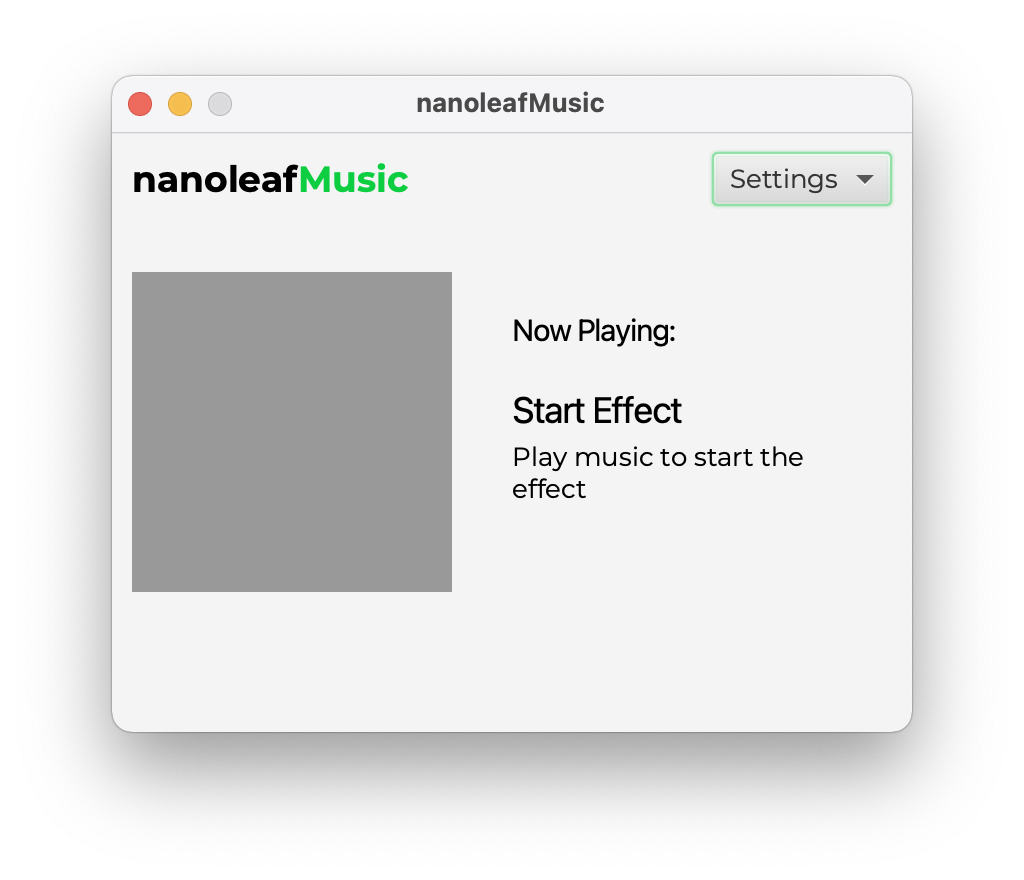
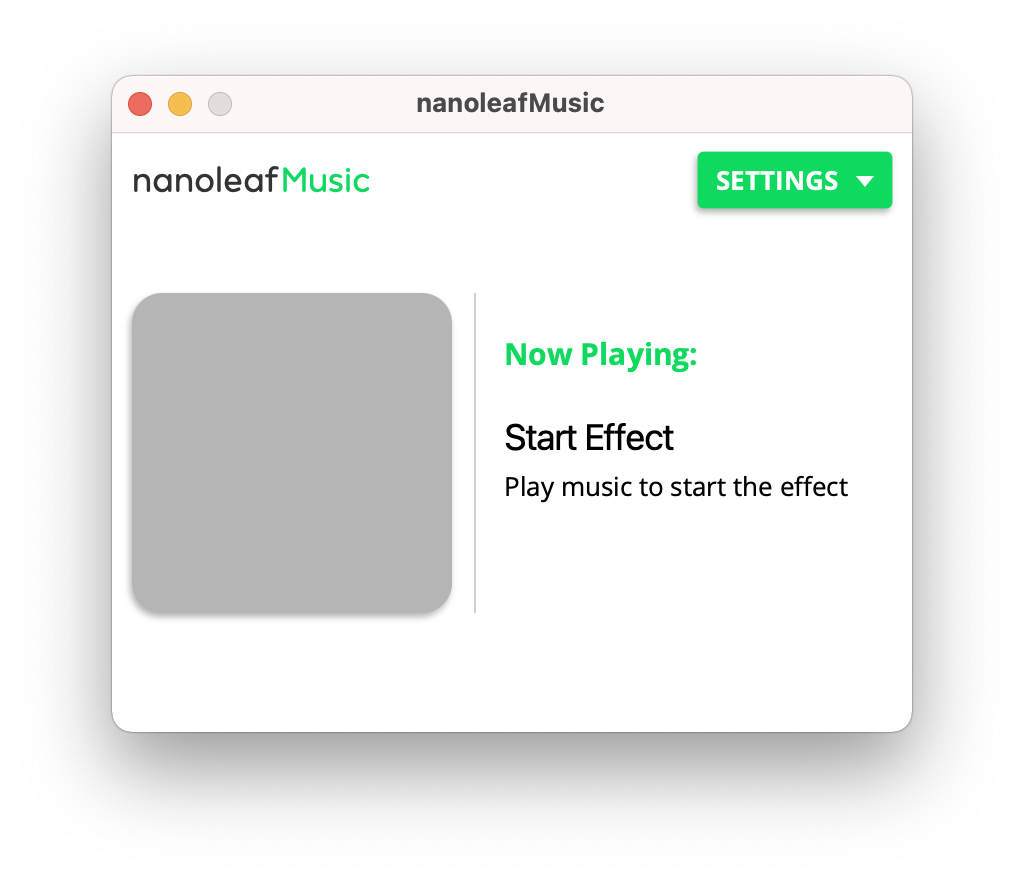
Prep for Release v1.0.0 (#5)
* Updated ReadMe Screenshots

* Updated README.md

* Removed UI Color Change

* Updated README.md

* Added about dialog

* Changed build JDK to 15.0.1

diff --git a/src/main/java/dev/jaxcksn/nanoleafMusic/controllers/PlaybackView.java b/src/main/java/dev/jaxcksn/nanoleafMusic/controllers/PlaybackView.java
@@ -18,12 +18,10 @@ import javafx.event.ActionEvent;
 import javafx.fxml.FXMLLoader;
 import javafx.scene.Parent;
 import javafx.scene.Scene;
-import javafx.scene.control.CheckMenuItem;
-import javafx.scene.control.Label;
-import javafx.scene.control.MenuButton;
-import javafx.scene.control.MenuItem;
+import javafx.scene.control.*;
 import javafx.scene.image.Image;
 import javafx.scene.layout.BorderPane;
+import javafx.scene.layout.Region;
 import javafx.scene.paint.Color;
 import javafx.scene.paint.ImagePattern;
 import javafx.scene.shape.Rectangle;
@@ -34,7 +32,6 @@ import java.io.IOException;
 
 
 public class PlaybackView {
-    public Image albumArt;
     public Text trackName;
     public Text trackArtists;
     public BorderPane mainPane;
@@ -42,9 +39,8 @@ public class PlaybackView {
     public MenuItem colorPaletteSelector;
     public MenuItem reloadEffectItem;
     public Rectangle trackArtFrame;
-    public Label accent1;
-    public Text accent2;
     public MenuButton menuButton;
+    public MenuItem aboutMenuItem;
     private EffectManager effectManager;
 
     private Scene palettePickerScene;
@@ -121,5 +117,15 @@ public class PlaybackView {
 
     public void reloadEffectManager(ActionEvent event) {
         effectManager.reloadEffect();
+    }
+
+    public void showAbout(ActionEvent event) {
+        Alert alert = new Alert(Alert.AlertType.INFORMATION);
+        alert.setHeaderText("About this Program");
+        alert.setContentText("NanoleafMusic v1.0.0 \nCopyright (c) 2020, Jaxcksn. All rights reserved.");
+        DialogPane dialogPane = alert.getDialogPane();
+        dialogPane.setMinHeight(Region.USE_PREF_SIZE);
+        dialogPane.getStylesheets().add("/gui.css");
+        alert.showAndWait();
     }
 }

diff --git a/src/main/java/dev/jaxcksn/nanoleafMusic/utility/PulseBeat.java b/src/main/java/dev/jaxcksn/nanoleafMusic/utility/PulseBeat.java
@@ -103,6 +103,7 @@ public class PulseBeat {
         }
 
         palette = newPalette;
+        /* Disabling this feature until I can prefect it.
         int betterColor = 0;
         int[] color0 = {newPalette[0].getRed(), newPalette[0].getGreen(), newPalette[0].getBlue()};
         int[] color1 = {newPalette[1].getRed(), newPalette[1].getGreen(), newPalette[1].getBlue()};
@@ -116,7 +117,9 @@ public class PulseBeat {
             }
         }
         accentColor = new PaletteColor(javafx.scene.paint.Color.rgb(newPalette[betterColor].getRed(), newPalette[betterColor].getGreen(), newPalette[betterColor].getBlue()));
+        */
     }
+
 
     private static double calculateColorful(int[] rgb) {
         double maxValue = largest(rgb);

diff --git a/README.md b/README.md
@@ -32,7 +32,7 @@ Select the device you want to connect too, and press the connect button.  A dial
 
 ##### Step 1.5: Saving Device Info
 
-Once you connect to a device, you will asked if you want to save the device information for easy reconnection. Pressing yes will save the device host, port, and the access token to your platforms default [preferences location](https://victor.kropp.name/blog/java-preferences-api/) .  Pressing save will overwrite any device that is already saved. 
+Once you connect to a device, you will be asked if you want to save the device information for easy reconnection. Pressing yes will save the device host, port, and the access token to your platforms default [preferences location](https://victor.kropp.name/blog/java-preferences-api/) .  Pressing save will overwrite any device that is already saved. 
 
 
 
@@ -42,7 +42,7 @@ Once you connect to a device, you will asked if you want to save the device info
   <img align="center" width="400" src="./assets/step2.png"/>
 </p>
 
-After connecting, you will be prompted to connect to Spotify. To do so, click the Connect to Spotify button and a browser will be opened. On that page, you will be prompted to sign into Spotify and then asked if you want to authorize this program. If you accept, you will be redirected to another page and if everything goes correctly you can return to the program.
+After connecting, you will be prompted to connect to Spotify. To do so, click the _Connect to Spotify_ button, and a browser will be opened. On that page, you will be prompted to sign in to Spotify and then asked if you want to authorize this program. If you accept, you will be redirected to another page and if everything goes correctly you can return to the program.
 
 
 
@@ -64,30 +64,27 @@ The effect has two different ways to set the colors, **album art** and **color p
 
 To add a color to the palette, use the color selection dropdown, and then press the _Add Color_ button to add it to the list. To remove a color from the palette, select the color in the list, then press the remove button. Finally, press the save button to apply your changes and update the colors. To go back to album art mode, open the settings drop down and enable it again. When you exit the program, both your color palette and color made will be saved for next time. 
 
-**Note:** A redo of the UI for the color palette is a high priority for future releases, and will let you see the colors instead of just the hex codes.
-
-
 
 ## Troubleshooting
 
 * **Your Nanoleaf Device is not showing up on the list of devices**
 
-  - Check to make sure that you are on the same LAN as your Nanoleaf device, and that you can listen for and send MDNS packets.
+  - Check to make sure you are on the same LAN as your Nanoleaf device, and that you can listen for and send MDNS packets.
 
-  - Press the refresh button and see if it shows up. Sometimes the program fails in the initial MDNS discovery.
+  - Press the refresh button and see if it shows up. Sometimes the program fails in the initial MDNS discovery and can take a few tries to find the device.
 
     
 
 * **I can't connect to Spotify**
 
-  * Make sure that you are accepting the prompts in your browser and on the same device the program is running on. It listens at localhost on port 8001 for the response from Spotify.
+  * Make sure you are accepting the prompts in your browser and on the same device the program is running on. It listens at localhost on port 8001 for the response from Spotify.
 
     
 
 * **I've changed the song, but the program doesn't show the song has changed.**
 
   * It can take a moment for the program to notice the song has changed, but once you see it change on the program, it should be reflected on the device.
-  * If it still doesn't respond, the best thing you can do is restart the program. (I know it's annoying, but hopefully this will be patched in future releases).
+  * If it still doesn't respond, in the settings menu there is a _reload effect_ button. Press that to restart the effect. If it doesn't work, I recommend restarting the program.
 
 
 
@@ -95,12 +92,15 @@ To add a color to the palette, use the color selection dropdown, and then press 
 
 For future releases, here is my list of some of my goals ordered by priority:
 
-- [ ] Refactoring and Improving Performance
+#### v1.0:
+- [X] Refactoring and Improving Performance
+- [X] Redo of the Color Palette UI
+- [X] UI Overhaul
+
+#### v1.5:
 - [ ] Adding Java Documentation to Source Code
-- [ ] Redo of the Color Palette UI
 - [ ] Adding a Firework Effect
 - [ ] Adding Player Controls to UI
-
 
 
 ## Credits
